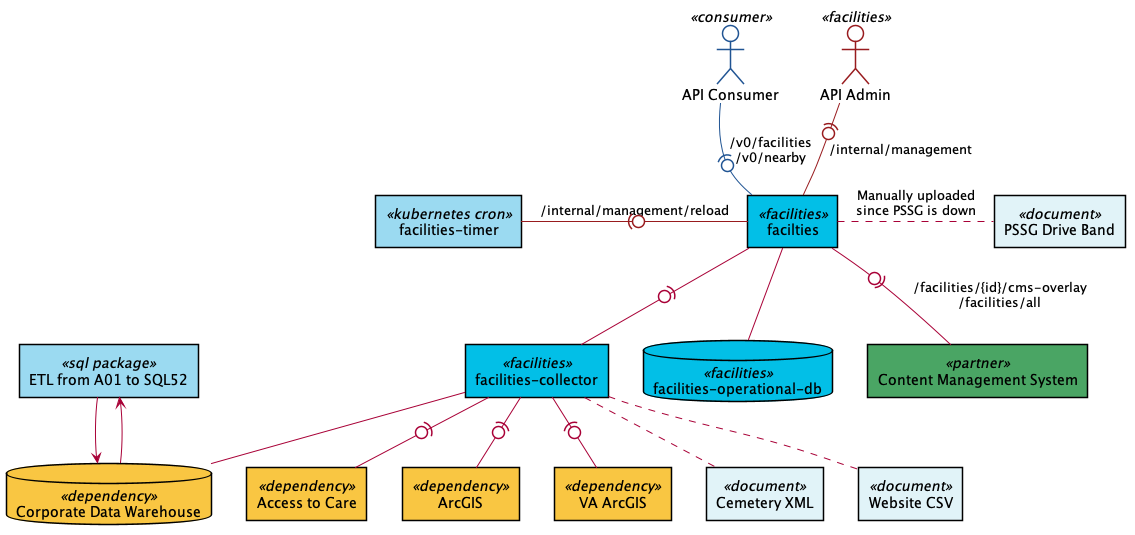
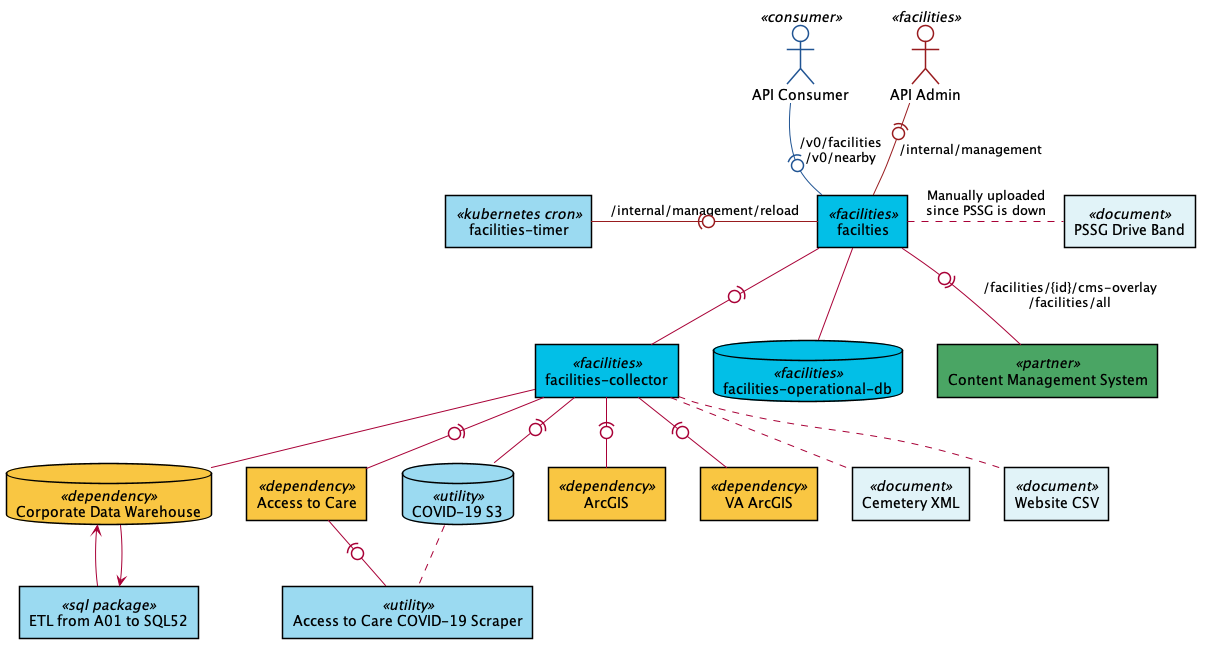
Documentation updates for COVID-19 integration (#90)

diff --git a/README.md b/README.md
@@ -45,6 +45,10 @@ Additional documentation also available on
 * `PSSG Drive Band` documents are currently being used in place of the the PSSG Drive Time Bands
   service which is offline. This data has been extracted from the last successful PSSG collection
   process and manually uploaded to the `facilities` application through management APIs.
+* `Access to Care COVID-19 Scraper` extracts data from the public Access to Care COVID-19
+  national summary and stores it in an S3 bucket for usage by the `facilities-collector`.
+  Access to Care COVID-19 data has proven to be fluid and subject to change. The scraper
+  is extracted from Facilities to allow for very rapid updates.
 
 # Data Flow
 ![Data Flow](src/plantuml/data-flow.png)
